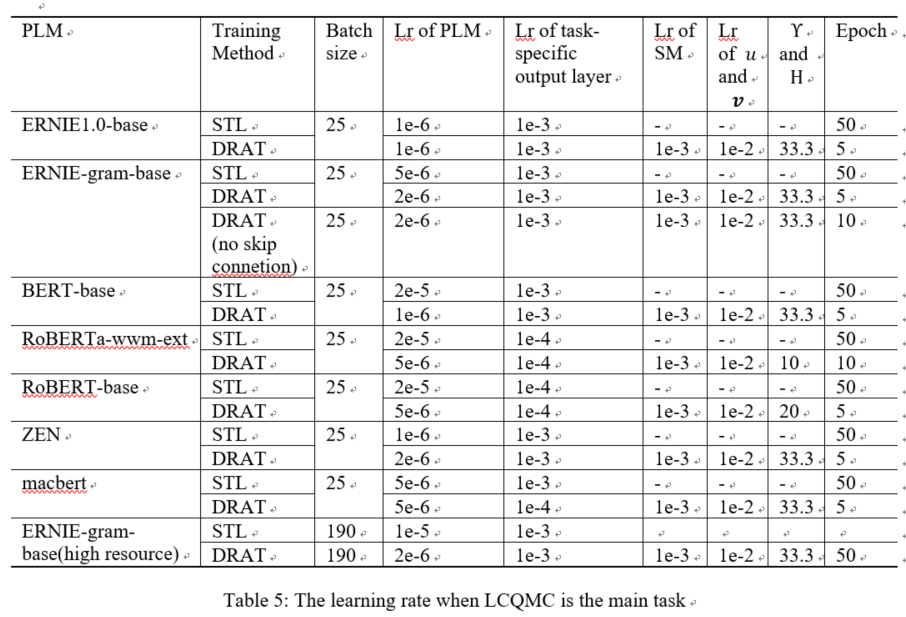
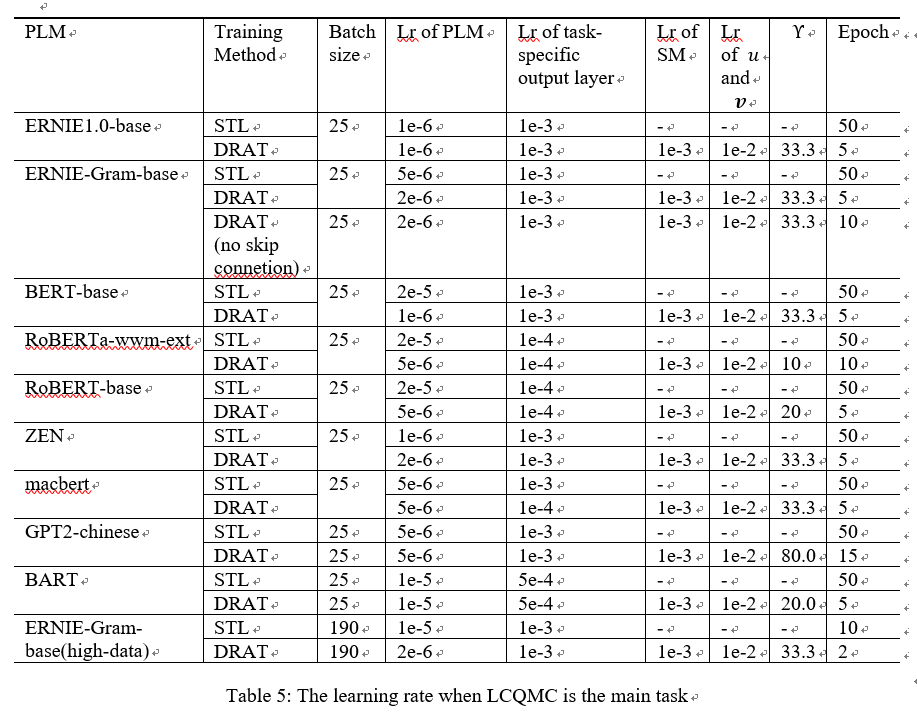
更新

Changed region(s): [[0.0, 0.0, 1.0, 1.0]]

diff --git a/job/train_job_two_stage.py b/job/train_job_two_stage.py
@@ -12,16 +12,13 @@ from model.main_model_linear_task_weight import MultiTaskModel as MultiTaskModel
 import json
 from config import run_time
 from common.data_process import data_loader
-import torch.nn.functional as F
 from pytorch_pretrained_bert.optimization import BertAdam
+from transformers import AdamW
 import time
 import torch
-from torch import nn
 import numpy as np
-from common.data_process import base_processor
 import random as rander
 rander.seed(666)
-from common.utils.squad_evaluation import  compute_f1
 import copy
 from model import evaluation_tools
 
@@ -29,12 +26,12 @@ torch.backends.cudnn.enabled = True
 torch.backends.cudnn.benchmark = True
 class Trainer():
   
-    def __init__(self, supervised=True, separated_training=False, total_step=-1):
+    def __init__(self, supervised=True, separated_training=False, total_step=-1, part_of_transformer="encoder"):
 
         #'''
         #ernie
         self.learning_rate_for_models = 5e-6#2e-5#1e6e rnirgram bertbase
-        self.learning_rate_for_sub_task_model = 1e-3
+        self.learning_rate_for_sub_task_model = 5e-4
         self.learning_rate_for_supervisor = 1e-3
         self.learning_rate_for_task_weight = 1e-2
         #'''
@@ -42,6 +39,7 @@ class Trainer():
         self.supervised = supervised
         self.separated_training = separated_training
         self.total_step = total_step
+        self.part_of_transformer = part_of_transformer
         print("训练不熟是", total_step)
 
     def init_optimizer(self, model, multi_task_loss, total_step_num):
@@ -101,12 +99,12 @@ class Trainer():
         optimizer_grouped_parameters = [
             {'params': [p for n, p in base_models_parameters if not any(nd in n for nd in no_decay)], 'weight_decay': 0.01},
             {'params': [p for n, p in base_models_parameters if any(nd in n for nd in no_decay)], 'weight_decay': 0.0}]
+        # if self.if_shared_encoder_bert_family:
         self.base_model_optimizer = BertAdam(optimizer_grouped_parameters, lr=self.learning_rate_for_models,
-                             warmup=warmup, t_total=total_step_num)
-        # self.base_model_optimizer_II = BertAdam(optimizer_grouped_parameters, lr=1e-5,
-        #                      warmup=warmup, t_total=total_step_num)
-        # self.base_model_optimizer_II = \
-        #        torch.optim.Adam(optimizer_grouped_parameters, lr=1e-5)
+                         warmup=warmup, t_total=total_step_num)
+        # else:
+        #     self.base_model_optimizer = AdamW(optimizer_grouped_parameters, lr=self.learning_rate_for_models)
+
         ################顶层模型的优化器##################
         supervisor_model_paprameters = [
             {'params': [p for n, p in supervisor_model_paprameters if not any(nd in n for nd in no_decay)], 'weight_decay': 0.01},
@@ -177,7 +175,8 @@ class Trainer():
             model = MultiTaskModelLinearTaskWeight(mode="train", main_task=main_task_name, \
                                                    supervised=supervised,
                                                    init_task_attention=init_task_attention,
-                                                   update_task_weight=update_task_weight)
+                                                   update_task_weight=update_task_weight,
+                                                   part_of_transformer=self.part_of_transformer)
         #############################
         self.main_task = main_task_name
         self.task_id_map = model.task_id_map
@@ -371,7 +370,7 @@ if __name__ == '__main__':
          "separated_training": True, "comment": "最好"}
 
     axuliary_task_plans = [
-                          ["text_similarity_LCQMC", "text_classification_THUCNews", "text_smililarity_atec", "text_classification_toutiao","text_similarity_CCKS2018",
+         ["text_similarity_LCQMC", "text_classification_THUCNews", "text_smililarity_atec", "text_classification_toutiao","text_similarity_CCKS2018",
                        "text_classification_tansongbo_hotel_comment", "NER_rmrb", "NER_CLUENER_public", "MRC_DRCD", "MRC_cmrc2018", \
                            "text_classification_chnsenticorp", "text_similarity_ChineseSTS", "text_classification_simplifyweibo_4_moods",
                            "NER_MSAR", "NER_rmrb_2014", "NER_boson", "NER_weibo", "MRC_chinese_SQuAD", "MRC_CAIL2019", "NER_CMNER",
@@ -386,13 +385,14 @@ if __name__ == '__main__':
 
         # ["text_similarity_CCKS2018", "NER_rmrb", "NER_CLUENER_public"],
     model_plan["supervised"] = True
-    run_time.ALL_AUXILIARY_TASK_LIST = ["MRC_DRCD"]#["MRC_DRCD"]#主任务##MRC_DRCD#text_classification_chnsenticorp#text_smililarity_atec#NER_MSAR
+    run_time.ALL_AUXILIARY_TASK_LIST = ["text_similarity_LCQMC"]#["MRC_DRCD"]#主任务##MRC_DRCD#text_classification_chnsenticorp#text_smililarity_atec#NER_MSAR
     stastics_mode = False#是否只计算任务权重
-    remove_rate = 0.67
+    remove_rate = 0.5
     pretrain_epoch, finetune_epoch = 10, 20#few tasks 10 epoch, many tasks 5 epoch
+    part_of_transformer = "whole"
     devset_size = -1
     PATH_BERT_BASE_DIR_list = [
-        "../../data/pretrained_models/model-ernie-gram-zh.1_torch",
+        "../../data/pretrained_models/chinese_bert_for_pytorch",
                                ]
     for subtask_list in axuliary_task_plans:
         subtask_list = [subtask_list] if type(subtask_list) == str else subtask_list
@@ -403,7 +403,7 @@ if __name__ == '__main__':
         for PATH_BERT_BASE_DIR in PATH_BERT_BASE_DIR_list:
             run_time.PATH_BERT_BASE_DIR = PATH_BERT_BASE_DIR
             for remove_some_tasks in [True]:#是否在训练过程中删除权重较低的任务
-                for train_set_size in [10000]:
+                for train_set_size in [100]:
                     for batch_size in [25]:
                         supervised, separated_training = model_plan["supervised"], model_plan["separated_training"]
                         separated_loss = "separated_loss" if model_plan.get("separated_loss")==True else "not_separated_loss"
@@ -431,7 +431,8 @@ if __name__ == '__main__':
 
                             trainer = Trainer(supervised=supervised, \
                                               separated_training=separated_training, \
-                                              total_step=int(len(run_time.ALL_AUXILIARY_TASK_LIST)*(pretrain_epoch + 1) * train_set_size / batch_size))
+                                              total_step=int(len(run_time.ALL_AUXILIARY_TASK_LIST)*(pretrain_epoch + 1) * train_set_size / batch_size),
+                                                                                                               part_of_transformer=part_of_transformer)
                             model, training_records_ori, task_attention = trainer.fit_pretraining(batch_size=batch_size, \
                                                                     train_set_size=train_set_size, devset_size=devset_size, epoch_num=pretrain_epoch,\
                                                                                                                 init_task_attention=init_task_attention,

diff --git a/model/main_model_linear_task_weight.py b/model/main_model_linear_task_weight.py
@@ -10,12 +10,11 @@ import sys, os
 #使用注意力来辅助顶层模型分配对各个辅助任务模块的权重
 sys.path.append(os.path.dirname(os.getcwd()))
 from config import run_time, load_models
-from common.pytorch_pretrained_bert import BertModel, BertTokenizer
-
+from pytorch_pretrained_bert import BertModel
+from transformers import BertTokenizerFast,AutoModel
 import torch.nn as nn
 import torch
-from common.models import text_classification_model, NER_model, MRC_span
-import random,  pickle
+import random
 import numpy as np
 from model.model_base import get_model_base, get_supervisor_model
 random.seed(666)
@@ -27,7 +26,7 @@ class MultiTaskModel(nn.Module):
     
     def __init__(self, mode="work", main_task="text_similarity_LCQMC", supervised=False,
                  has_shared_encoder=False, init_task_attention=None,
-                 update_task_weight=True):
+                 update_task_weight=True, part_of_transformer="encoder"):
         super(MultiTaskModel, self).__init__()
         
         print('初始化计算图')
@@ -58,7 +57,15 @@ class MultiTaskModel(nn.Module):
         print("初始化硬共享的参数")
         #初始化bert
         print("预训练bert参数文件地址", run_time.PATH_BERT_BASE_DIR)
-        self.bert = BertModel.from_pretrained(run_time.PATH_BERT_BASE_DIR)
+        self.part_of_transformer = part_of_transformer
+        if self.part_of_transformer=="encoder":
+            self.bert = BertModel.from_pretrained(run_time.PATH_BERT_BASE_DIR)
+        elif self.part_of_transformer=="decoder":#https://huggingface.co/uer/gpt2-chinese-cluecorpussmall
+            self.bert = AutoModel.from_pretrained('uer/gpt2-chinese-cluecorpussmall')#AutoModel.from_pretrained("ckiplab/gpt2-base-chinese")
+        else:#https://huggingface.co/fnlp/bart-base-chinese
+            from transformers import BartModel
+            self.bert = BartModel.from_pretrained("fnlp/bart-base-chinese")
+
         for param in self.bert.parameters():
             param.requires_grad = True
 
@@ -87,9 +94,18 @@ class MultiTaskModel(nn.Module):
         token_ids, segment_ids, mask_ids, task_ids = inputs
         #print("task_ids", task_ids)
         #使用bert表示文本
-        self.input_representation, pooled = self.bert(token_ids, attention_mask=mask_ids,\
-                                     token_type_ids=segment_ids, output_all_encoded_layers=True, need_layer_no=12)
-        self.input_representation = self.input_representation[-1]#取第k层的输出
+        if self.part_of_transformer=="encoder":
+            self.input_representation, pooled = self.bert(token_ids, attention_mask=mask_ids,\
+                                         token_type_ids=segment_ids, output_all_encoded_layers=True)
+            self.input_representation = self.input_representation[-1]#取第k层的输出
+        elif self.part_of_transformer=='decoder':
+            result = self.bert(token_ids, attention_mask=mask_ids, token_type_ids=segment_ids)
+            self.input_representation = result.last_hidden_state
+            pooled = result.last_hidden_state[:, 0, :]
+        else:
+            result = self.bert(token_ids, attention_mask=mask_ids).last_hidden_state
+            self.input_representation = result
+            pooled = result[:, 0, :]
             
         # self.input_representation = self.dropout(self.input_representation)
         text_representation_of_each_task = {}

diff --git a/job/test.py b/job/test.py
@@ -1,14 +1,35 @@
-from scipy.stats import pearsonr, kendalltau
-a = [ 0.12128739493459102, 0.08102652289396785, 0.0966451095210617, 0.06436231017687573, 0.0643510059074385, 0.054309384405308504, 0.07362902118574298, 0.07119558221951146, 0.08728150356695365, 0.10254903788275156, 0.06996882200217606, 0.06965315862402971, 0.06637234844646515, 0.05683645335525334, 0.04457036705471457, 0.05803981477187338]
+'''
+from transformers import BertTokenizerFast,AutoModel
 
+tokenizer = BertTokenizerFast.from_pretrained("bert-base-chinese")
+model = AutoModel.from_pretrained("ckiplab/gpt2-base-chinese")
+s1 = "这是一个字"
+s2 = "这是另一个字"
+encoded_input = tokenizer(text=s1, text_pair=s2, return_tensors='pt', padding='max_length', max_length=90)
+print(encoded_input)
+output = model(**encoded_input)
+#print(output.keys())
+print(output.__dict__.keys())
+'''
+from transformers import GPT2Tokenizer, GPT2Model
+from transformers import AutoTokenizer, AutoModel
+'''
+tokenizer = AutoTokenizer.from_pretrained('uer/gpt2-chinese-cluecorpussmall')
+model = AutoModel.from_pretrained('uer/gpt2-chinese-cluecorpussmall')
+text = "Replace me by any text you'd like."
+encoded_input = tokenizer(text, return_tensors='pt')
+print(encoded_input)
+output = model(**encoded_input)
+print(output.__dict__.keys())
+'''
+from transformers import AutoTokenizer, AutoModel
 
-
-b = [0.10955334420938145, 0.05135686822016755, 0.1166896807409743, 0.05209782443461531, 0.07748514911394734, 0.06448937460508182, 0.08017284452788533, 0.06109377002140316, 0.0781966847657254, 0.09085348206997652, 0.10422108462462876, 0.06569576396194282, 0.0729815504946879, 0.06749843217006264, 0.07494602640608797, 0.06614053236963209
-     ]
-
-
-print(pearsonr(a, b))
-print(kendalltau(a, b))
-import torch
-data = torch.tensor([0.4])
-print(torch.sigmoid(data))
+from transformers import BertTokenizer, BartForConditionalGeneration, Text2TextGenerationPipeline, BartModel
+tokenizer = AutoTokenizer.from_pretrained("bert-base-chinese")
+model = BartModel.from_pretrained("fnlp/bart-base-chinese")
+text = "Replace me by any text you'd like."
+encoded_input = tokenizer(text, return_tensors='pt')
+print(encoded_input.keys())
+output = model(input_ids=encoded_input['input_ids'], attention_mask=encoded_input['attention_mask'])
+print(output.__dict__.keys())
+print(output.last_hidden_state)

diff --git a/model/model_base.py b/model/model_base.py
@@ -76,7 +76,7 @@ def get_supervisor_model(task_name, model_map):
     if task_name in ["text_similarity_LCQMC", "text_smililarity_atec", "text_similarity_afqmc"]:
         supervisor = text_classification_model.TextClassification(task_name, supervisor=True,
                                                                    class_num=2)
-        model_map[task_name] = text_classification_model.TextClassification(task_name, highway=False,
+        model_map[task_name] = text_classification_model.TextClassification(task_name, highway=True,
                                                                   class_num=2)
     if task_name in ["MRC_DRCD"]:
         supervisor = MRC_span.MRCSpan(task_name, supervisor=True)

diff --git a/model/evaluation_tools.py b/model/evaluation_tools.py
@@ -53,7 +53,7 @@ def evaluate_SIM(epoch, dev_data_batches, model, trainng_records, trainer, mode=
 #                 predict_logits = outputs[self.task_name_id_map["text_similarity_LCQMC"]][0]
         print(mode, "辅助模型的结果:")
         f1_score, accuracy = get_evaluation_metrics(confusion_matrix_aux, "基层模型", mode, task_weight=task_weight)
-    return f1_score + accuracy
+    return accuracy#f1_score + accuracy
 
 
 #计算span预测型阅读理解任务的EM正确率

diff --git a/model/loss.py b/model/loss.py
@@ -9,13 +9,10 @@ import sys, os
 #使用注意力来辅助顶层模型分配对各个辅助任务模块的权重
 sys.path.append(os.path.dirname(os.getcwd()))
 from config import run_time, load_models
-from pytorch_pretrained_bert import BertModel, BertTokenizer
 
 import torch.nn as nn
 import torch
-from common.models import text_classification_model
 import random,  pickle
-import numpy as np
 import torch.nn.functional as F
 random.seed(666)
 

diff --git a/model/bert_stage_II.py b/model/bert_stage_II.py
@@ -9,7 +9,7 @@ import sys, os
 
 sys.path.append(os.path.dirname(os.getcwd()))
 from config import run_time, load_models
-from common.pytorch_pretrained_bert import BertModel, BertTokenizer
+from pytorch_pretrained_bert import BertModel, BertTokenizer
 
 import torch.nn as nn
 import torch

diff --git a/model/bert_base.py b/model/bert_base.py
@@ -9,7 +9,7 @@ import sys, os
 
 sys.path.append(os.path.dirname(os.getcwd()))
 from config import run_time, load_models
-from common.pytorch_pretrained_bert import BertModel, BertTokenizer
+from pytorch_pretrained_bert import BertModel
 
 import torch.nn as nn
 import torch

diff --git a/model/MRC_base.py b/model/MRC_base.py
@@ -8,7 +8,7 @@ Created on 2021年8月6日
 from config import run_time
 import torch
 import torch.nn as nn
-from common.pytorch_pretrained_bert import BertModel, BertTokenizer
+from pytorch_pretrained_bert import BertModel
 
 class MRCSpan(nn.Module):
     
